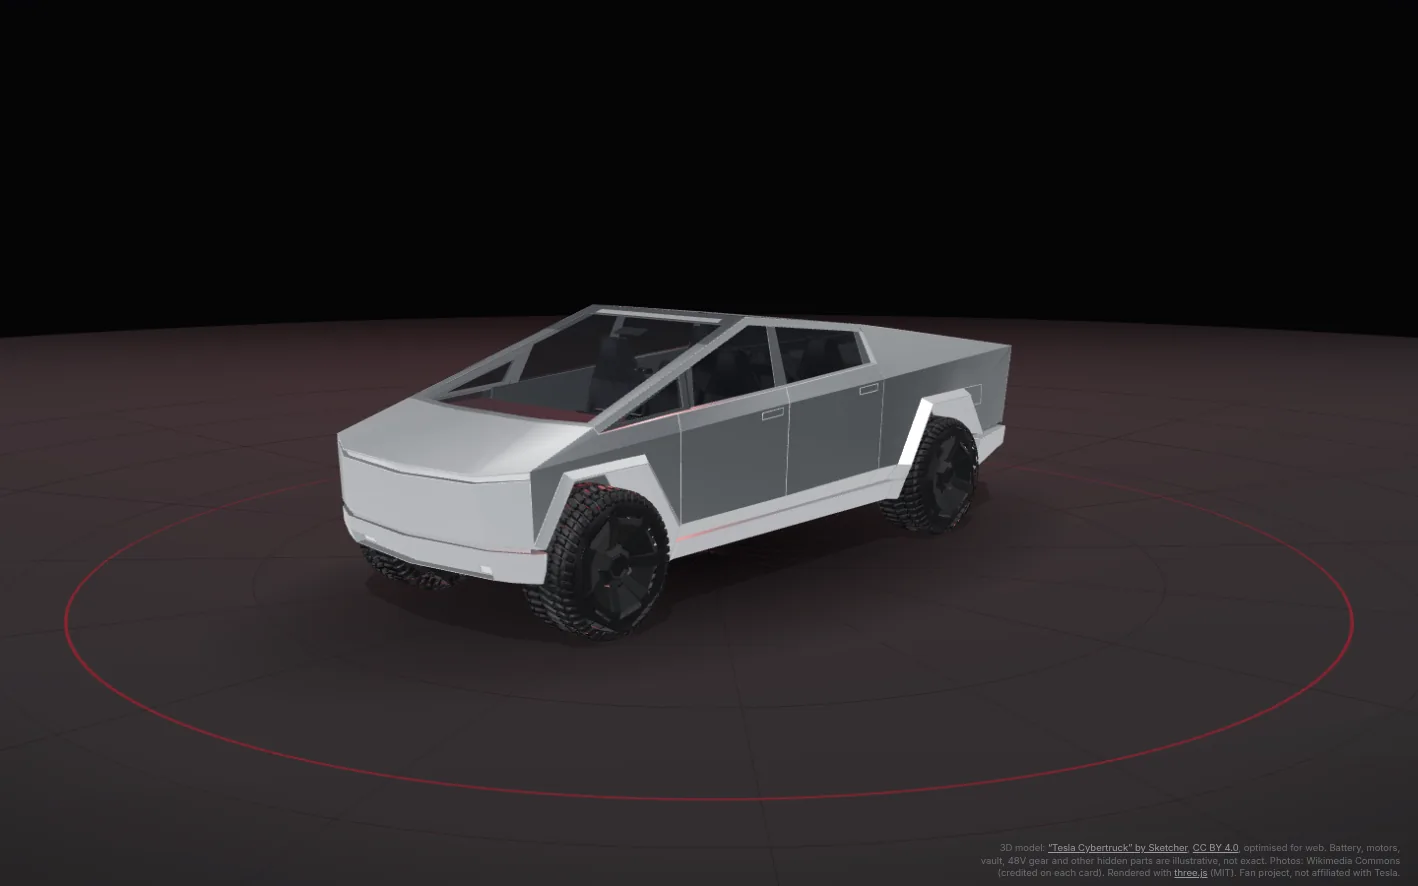
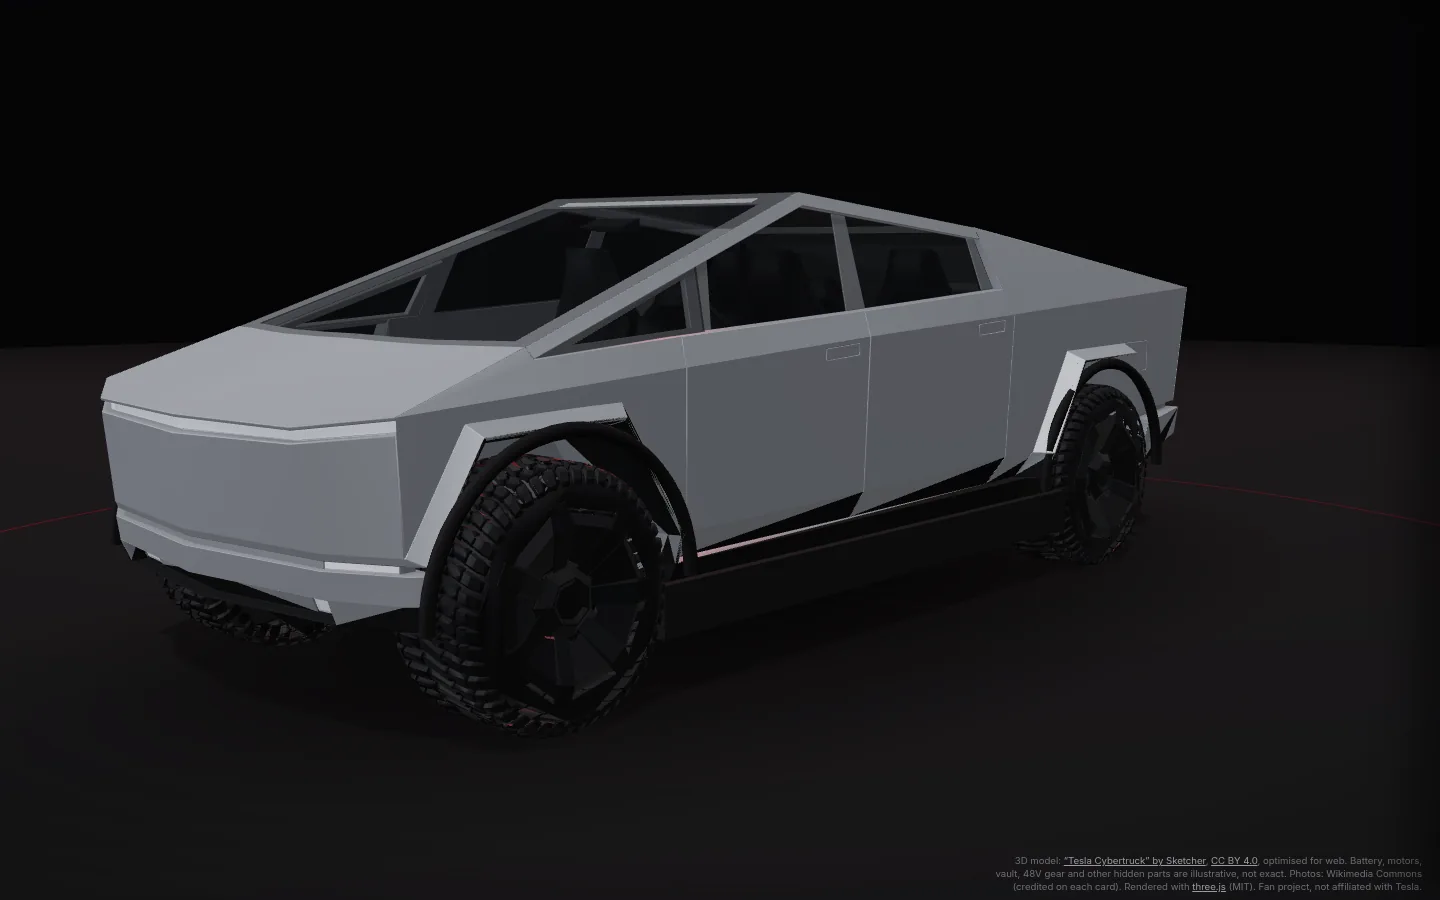
Darken Cybertruck rocker and wheel-arch trim (#81)
* Darken Cybertruck rocker and arch trim, and start the camera closer.

The stainless shell was reading as a white lip on the lower body and wheel arches. Those triangles now use a dark plastic material, illustrated internals stay hidden until explode, and the home camera sits nearer so the truck fills the frame.

* Dull the Cybertruck shell and pull the explode camera back.

The stainless read too mirror-bright on the big front planes, so roughness is up and the lights are quieter. Explode now flies further out so the pack and motors stay in frame from the closer home view.

---------

diff --git a/cybertruck-explorer.js b/cybertruck-explorer.js
@@ -8,7 +8,7 @@ import { RoomEnvironment } from '/vendor/three/addons/RoomEnvironment.js';
 import { PARTS, ORDER, PHOTOS } from './cybertruck-parts.js?v=1';
 
 const EXTERIOR = {
-  url: '/assets/3d/cybertruck.glb?v=2',
+  url: '/assets/3d/cybertruck.glb?v=4',
   length: 5.682,
   classify(o) {
     const n = ((o.name || '') + ' ' + ((o.material && o.material.name) || '')).toLowerCase();
@@ -36,19 +36,19 @@ try { renderer = new THREE.WebGLRenderer({ antialias: true, powerPreference: 'hi
 catch (e) { fail('Your browser can’t run 3D here, so this is a still image.'); throw e; }
 let dpr = Math.min(devicePixelRatio || 1, coarse ? 1.75 : 2);
 renderer.setPixelRatio(dpr);
-renderer.toneMapping = THREE.ACESFilmicToneMapping; renderer.toneMappingExposure = 1.05;
+renderer.toneMapping = THREE.ACESFilmicToneMapping; renderer.toneMappingExposure = 0.88;
 renderer.outputColorSpace = THREE.SRGBColorSpace;
 renderer.shadowMap.enabled = true; renderer.shadowMap.type = THREE.PCFSoftShadowMap;
 $('.m3x-canvas').appendChild(renderer.domElement);
 
-const scene = new THREE.Scene(); scene.background = new THREE.Color(0x050506); scene.fog = new THREE.Fog(0x050506, 16, 38);
+const scene = new THREE.Scene(); scene.background = new THREE.Color(0x050506); scene.fog = new THREE.Fog(0x050506, 14, 34);
 const pmrem = new THREE.PMREMGenerator(renderer);
-scene.environment = pmrem.fromScene(new RoomEnvironment(), 0.03).texture; scene.environmentIntensity = 1.05;
+scene.environment = pmrem.fromScene(new RoomEnvironment(), 0.03).texture; scene.environmentIntensity = 0.58;
 const camera = new THREE.PerspectiveCamera(35, 1, 0.05, 90);
-const key = new THREE.DirectionalLight(0xffffff, 2.15); key.position.set(5, 10, 6); key.castShadow = true;
+const key = new THREE.DirectionalLight(0xffffff, 1.28); key.position.set(5, 10, 6); key.castShadow = true;
 key.shadow.mapSize.set(coarse ? 1024 : 2048, coarse ? 1024 : 2048); Object.assign(key.shadow.camera, { left: -7, right: 7, top: 7, bottom: -7, near: 1, far: 30 }); key.shadow.radius = 8; key.shadow.bias = -0.0004; key.shadow.normalBias = 0.02;
-const rim = new THREE.DirectionalLight(0xff5a66, 1.15); rim.position.set(-7, 0.6, -7);
-const fill = new THREE.DirectionalLight(0xbfd2ff, 0.55); fill.position.set(-6, 4, 7);
+const rim = new THREE.DirectionalLight(0xff5a66, 0.32); rim.position.set(-7, 0.6, -7);
+const fill = new THREE.DirectionalLight(0xbfd2ff, 0.42); fill.position.set(-6, 4, 7);
 scene.add(key, rim, fill, new THREE.HemisphereLight(0x9aa8ff, 0x100404, 0.25));
 const floor = new THREE.Mesh(new THREE.CircleGeometry(20, 96), new THREE.MeshStandardMaterial({ color: 0x08080a, roughness: 1, metalness: 0, envMapIntensity: 0.1 }));
 floor.rotation.x = -Math.PI / 2; floor.receiveShadow = true; scene.add(floor);
@@ -59,12 +59,13 @@ ring.rotation.x = -Math.PI / 2; ring.position.y = 0.004; scene.add(ring);
 const grid = new THREE.PolarGridHelper(10, 16, 6, 96, 0x2a0a0e, 0x1a0b0d); grid.position.y = 0.002; grid.material.transparent = true; grid.material.opacity = .35; scene.add(grid);
 
 const controls = new OrbitControls(camera, renderer.domElement);
-Object.assign(controls, { enableDamping: true, dampingFactor: 0.07, enablePan: false, enableZoom: true, minDistance: 2.2, maxDistance: 18, minPolarAngle: 0.12, maxPolarAngle: Math.PI / 2 - 0.04, rotateSpeed: coarse ? 0.85 : 0.65, zoomSpeed: 0.7 });
+Object.assign(controls, { enableDamping: true, dampingFactor: 0.07, enablePan: false, enableZoom: true, minDistance: 1.8, maxDistance: 16, minPolarAngle: 0.12, maxPolarAngle: Math.PI / 2 - 0.04, rotateSpeed: coarse ? 0.85 : 0.65, zoomSpeed: 0.7 });
 renderer.domElement.style.touchAction = 'none';
-const HOME = { p: new THREE.Vector3(), t: new THREE.Vector3(0, 0.85, 0) };
-const homePos = () => new THREE.Vector3(7.2, 2.8, 8.0).multiplyScalar(portrait() ? 1.55 : 1);
+const HOME = { p: new THREE.Vector3(), t: new THREE.Vector3(0, 0.7, 0.12) };
+const homePos = () => new THREE.Vector3(4.7, 1.68, 5.2).multiplyScalar(portrait() ? 1.55 : 1);
 
 const parts = {};
+const HIDDEN_UNTIL_EXPLODE = new Set(['battery', 'rearMotor', 'frontMotor', 'inverter', 'lv', 'steer', 'vault', 'frunk', 'susp', 'hvac', 'display', 'brakes']);
 const reg = (id) => (parts[id] = parts[id] || { meshes: [], hits: [], group: new THREE.Group(), off: new THREE.Vector3() });
 const car = new THREE.Group(); scene.add(car);
 const S = (o) => new THREE.MeshStandardMaterial(o), P = (o) => new THREE.MeshPhysicalMaterial(o);
@@ -77,7 +78,8 @@ const M = {
   cool: S({ color: 0x3f6f8f, metalness: .8, roughness: .35 }), spring: S({ color: 0xd9dadd, metalness: .85, roughness: .25 }),
   disc: S({ color: 0x777a80, metalness: .95, roughness: .28 }), lens: P({ color: 0x0b0f18, metalness: .2, roughness: .05, clearcoat: 1 }),
   hvac: S({ color: 0x34373d, metalness: .3, roughness: .6 }), blue: S({ color: 0x2a5d9b, roughness: .5 }), red: S({ color: RED, roughness: .45 }),
-  stainless: P({ color: 0xb7bbc0, metalness: .96, roughness: .18, clearcoat: .28, clearcoatRoughness: .22, envMapIntensity: 1.15 }),
+  stainless: P({ color: 0x8f9297, metalness: .55, roughness: .52, clearcoat: 0, envMapIntensity: 0.32 }),
+  clad: S({ color: 0x0e0f11, metalness: .08, roughness: .86, envMapIntensity: 0.18 }),
 };
 const V = (x, y, z) => new THREE.Vector3(x, y, z);
 function addMesh(id, m, hitMin = 0.26) {
@@ -177,12 +179,97 @@ function buildInternals(d) {
   Object.entries(off).forEach(([k, v]) => { if (parts[k]) parts[k].off.copy(v); });
 }
 
+function geomFromTris(g, tris, mat, mesh) {
+  if (!tris.length) return null;
+  const ng = new THREE.BufferGeometry();
+  for (const name of Object.keys(g.attributes)) {
+    const a = g.attributes[name], arr = new a.array.constructor(tris.length * 3 * a.itemSize);
+    tris.forEach((t, i) => { for (let k = 0; k < 3 * a.itemSize; k++) arr[i * 3 * a.itemSize + k] = a.array[t * a.itemSize + k]; });
+    ng.setAttribute(name, new THREE.BufferAttribute(arr, a.itemSize, a.normalized));
+  }
+  const nm = new THREE.Mesh(ng, mat);
+  nm.name = mesh.name;
+  nm.matrixAutoUpdate = false;
+  nm.matrix.copy(mesh.matrixWorld);
+  nm.matrixWorldNeedsUpdate = true;
+  nm.castShadow = nm.receiveShadow = true;
+  return nm;
+}
 function splitLR(mesh) {
   const g = mesh.geometry.index ? mesh.geometry.toNonIndexed() : mesh.geometry; const pos = g.attributes.position; const out = [[], []];
   const v = new THREE.Vector3(), m = mesh.matrixWorld;
   for (let t = 0; t < pos.count; t += 3) { let cx = 0; for (let k = 0; k < 3; k++) { v.fromBufferAttribute(pos, t + k).applyMatrix4(m); cx += v.x; } out[cx < 0 ? 0 : 1].push(t); }
-  return out.map((tris) => { if (!tris.length) return null; const ng = new THREE.BufferGeometry(); for (const name of Object.keys(g.attributes)) { const a = g.attributes[name], arr = new a.array.constructor(tris.length * 3 * a.itemSize); tris.forEach((t, i) => { for (let k = 0; k < 3 * a.itemSize; k++) arr[i * 3 * a.itemSize + k] = a.array[t * a.itemSize + k]; }); ng.setAttribute(name, new THREE.BufferAttribute(arr, a.itemSize, a.normalized)); }
-    const nm = new THREE.Mesh(ng, mesh.material); nm.name = mesh.name; nm.matrixAutoUpdate = false; nm.matrix.copy(mesh.matrixWorld); nm.matrixWorldNeedsUpdate = true; return nm; });
+  return out.map((tris) => geomFromTris(g, tris, mesh.material, mesh));
+}
+// Wheel-arch flares and the lower rocker are the same stainless Bodyl mesh.
+// Split those triangles so they read as the truck’s dark plastic cladding.
+function splitCladding(mesh, d) {
+  const g = mesh.geometry.index ? mesh.geometry.toNonIndexed() : mesh.geometry;
+  const pos = g.attributes.position, mw = mesh.matrixWorld;
+  const va = new THREE.Vector3(), vb = new THREE.Vector3(), vc = new THREE.Vector3();
+  const wy = d.cy || d.R;
+  const wheels = [[d.tw, d.zf, d.R], [-d.tw, d.zf, d.R], [d.tw, d.zr, d.R], [-d.tw, d.zr, d.R]];
+  const xOut = Math.max(0.86, d.tw * 0.88);
+  const clad = [], rest = [];
+  for (let t = 0; t < pos.count; t += 3) {
+    va.fromBufferAttribute(pos, t).applyMatrix4(mw);
+    vb.fromBufferAttribute(pos, t + 1).applyMatrix4(mw);
+    vc.fromBufferAttribute(pos, t + 2).applyMatrix4(mw);
+    const cx = (va.x + vb.x + vc.x) / 3, cy = (va.y + vb.y + vc.y) / 3, cz = (va.z + vb.z + vc.z) / 3;
+    let arch = false;
+    for (let i = 0; i < 4; i++) {
+      const wx = wheels[i][0], wz = wheels[i][1], r = wheels[i][2];
+      // Side-view ring around the wheel, not a top-down cylinder — that
+      // painted the doors. Keep the flare on the outer skin.
+      const ring = Math.hypot(cy - wy, cz - wz);
+      // Top and upper sides of the opening only. A full ring paints the fender.
+      if (cy > wy + r * 0.5 && ring > r * 0.95 && ring < r * 1.34 && Math.abs(cz - wz) < r * 0.95 && Math.abs(cx) > xOut) { arch = true; break; }
+    }
+    const skirt = cy < 0.58 && Math.abs(cx) > Math.max(0.84, d.tw * 0.86);
+    const under = cy < 0.42;
+    const chin = cy < 0.50 && Math.abs(cz) > 2.28;
+    (arch || skirt || under || chin ? clad : rest).push(t);
+  }
+  const shell = geomFromTris(g, rest, M.stainless, mesh);
+  const trim = geomFromTris(g, clad, M.clad, mesh);
+  if (trim) trim.name = 'cladding';
+  globalThis.__ctxClad = { tris: clad.length, rest: rest.length, tw: d.tw, R: d.R, wy };
+  return [shell, trim].filter(Boolean);
+}
+function addCladdingFills(d) {
+  const p = reg('body');
+  const mid = (d.zf + d.zr) / 2;
+  const len = Math.max(1.35, d.zf - d.zr - 0.85);
+  for (const sx of [-1, 1]) {
+    const wall = new THREE.Mesh(box(0.04, 0.2, len), M.clad);
+    wall.position.set(sx * Math.min((d.tx || d.tw + 0.12) - 0.04, d.tw + 0.08), 0.36, mid);
+    wall.userData.part = 'body';
+    wall.name = 'rocker-fill';
+    wall.castShadow = wall.receiveShadow = true;
+    p.group.add(wall);
+    p.meshes.push(wall);
+  }
+  const tray = new THREE.Mesh(box(Math.min(d.W - 0.25, 2 * d.tw + 0.2), 0.035, d.zf - d.zr - 0.4), M.clad);
+  tray.position.set(0, 0.34, mid);
+  tray.userData.part = 'body';
+  tray.name = 'undertray';
+  tray.castShadow = tray.receiveShadow = true;
+  p.group.add(tray);
+  p.meshes.push(tray);
+  const wy = d.cy || d.R;
+  const rad = d.R * 1.26;
+  for (const sx of [-1, 1]) {
+    for (const z of [d.zf, d.zr]) {
+      const m = new THREE.Mesh(new THREE.TorusGeometry(rad, 0.028, 6, 28, Math.PI), M.clad);
+      m.position.set(sx * ((d.tx || d.tw + 0.1) - 0.05), wy, z);
+      m.rotation.y = Math.PI / 2;
+      m.userData.part = 'body';
+      m.name = 'arch-trim';
+      m.castShadow = m.receiveShadow = true;
+      p.group.add(m);
+      p.meshes.push(m);
+    }
+  }
 }
 
 const status = $('.m3x-status'); status.textContent = 'Loading Cybertruck…';
@@ -239,7 +326,14 @@ new GLTFLoader().setDRACOLoader(new DRACOLoader().setDecoderPath('/vendor/three/
   });
   const pts = []; const v = new THREE.Vector3(); tyres.forEach((t) => { const p = t.geometry.attributes.position; const step = Math.max(1, Math.floor(p.count / 400)); for (let i = 0; i < p.count; i += step) pts.push(v.fromBufferAttribute(p, i).applyMatrix4(t.matrixWorld).clone()); });
   const q = { fl: [], fr: [], rl: [], rr: [] }; pts.forEach((p) => q[(p.z > 0 ? 'f' : 'r') + (p.x > 0 ? 'l' : 'r')].push(p));
-  const cen = (a) => { const bb = new THREE.Box3().setFromPoints(a); return { c: bb.getCenter(new THREE.Vector3()), r: bb.getSize(new THREE.Vector3()).y / 2 }; };
+  const cen = (a) => {
+    if (!a.length) return { c: new THREE.Vector3(), r: 0.46 };
+    const abs = a.map((p) => Math.abs(p.x)).sort((x, y) => x - y);
+    const cut = abs[Math.floor(abs.length * 0.4)] || 0;
+    const outer = a.filter((p) => Math.abs(p.x) >= cut);
+    const bb = new THREE.Box3().setFromPoints(outer.length ? outer : a);
+    return { c: bb.getCenter(new THREE.Vector3()), r: bb.getSize(new THREE.Vector3()).y / 2 };
+  };
   let d;
   try { const W4 = Object.values(q).map(cen); d = { zf: (W4[0].c.z + W4[1].c.z) / 2, zr: (W4[2].c.z + W4[3].c.z) / 2, tw: W4.reduce((a, w) => a + Math.abs(w.c.x), 0) / 4, R: W4.reduce((a, w) => a + w.r, 0) / 4, cy: W4.reduce((a, w) => a + w.c.y, 0) / 4, tx: pts.reduce((a, p) => Math.max(a, Math.abs(p.x)), 0) }; if (!isFinite(d.zf) || !isFinite(d.R) || d.R < 0.2) throw 0; }
   catch (e) { d = { zf: 1.82, zr: -1.82, tw: 0.95, R: 0.46 }; }
@@ -247,10 +341,15 @@ new GLTFLoader().setDRACOLoader(new DRACOLoader().setDecoderPath('/vendor/three/
   globalThis.__ctxD = d;
   meshes.forEach((o) => {
     const id = o.userData.part;
-    if (id === 'wheels') { splitLR(o).forEach((nm, i) => { if (!nm) return; nm.castShadow = nm.receiveShadow = true; nm.userData = { part: id, side: i }; reg(id).meshes.push(nm); }); o.visible = false; return; }
+    if (id === 'wheels') { splitLR(o).forEach((nm, i) => { if (!nm) return; nm.userData = { part: id, side: i }; reg(id).meshes.push(nm); }); o.visible = false; return; }
+    if (id === 'body') {
+      splitCladding(o, d).forEach((nm) => { nm.userData.part = 'body'; const p = reg('body'); p.group.attach(nm); p.meshes.push(nm); });
+      o.visible = false; return;
+    }
     const p = reg(id); p.group.attach(o); p.meshes.push(o);
   });
   buildInternals(d);
+  addCladdingFills(d);
   if (/debug/.test(location.search)) window.__ctx = { THREE, parts, car, camera, controls, d };
   (parts.body ? parts.body.meshes : []).forEach((o) => { const cc = new THREE.Box3().setFromObject(o).getCenter(new THREE.Vector3()); o.userData.base = o.position.clone(); o.userData.eo = o.parent.worldToLocal(cc.clone().add(V(cc.x * 0.1, 0.03, cc.z * 0.04))).sub(o.parent.worldToLocal(cc.clone())); });
   const SPLIT = { wheels: 1.05, brakes: 0.85, susp: 0.5 };
@@ -260,6 +359,7 @@ new GLTFLoader().setDRACOLoader(new DRACOLoader().setDecoderPath('/vendor/three/
     if (Math.max(sz.x, sz.y, sz.z) > 1.4) return; const h = new THREE.Mesh(new THREE.BoxGeometry(Math.max(sz.x, .22), Math.max(sz.y, .22), Math.max(sz.z, .22)), new THREE.MeshBasicMaterial({ visible: false })); h.position.copy(cc); h.userData = { part: id, hit: true, side: o.userData.side };
     const parent = p.sides && o.parent && o.parent !== p.group ? o.parent : p.group; parent.attach ? parent.attach(h) : p.group.add(h); p.hits.push(h); }); });
   Object.values(parts).forEach((p) => car.add(p.group));
+  HIDDEN_UNTIL_EXPLODE.forEach((id) => { const p = parts[id]; if (p) p.group.visible = false; });
   buildList(); app.classList.add('m3x-ready'); status.textContent = ''; bar && (bar.style.opacity = 0); kick();
 }, (e) => { if (bar && e.total) bar.style.transform = 'scaleX(' + (e.loaded / e.total) + ')'; }, () => fail('Couldn’t load the 3D model, so this is a still image.'));
 
@@ -272,9 +372,20 @@ function setExplode(v) {
   syncEx(); kick();
 }
 slider.addEventListener('input', () => { exT = ex = slider.value / 100; exAnim = null; syncEx(); kick(); });
-exBtn.addEventListener('click', () => { const v = exT > 0.5 ? 0 : 1; setExplode(v); if (!selected) startFly(v ? homePos().multiplyScalar(1.22).add(V(0, 0.7, 0)) : homePos(), v ? V(0, 1.25, 0) : HOME.t.clone()); });
+exBtn.addEventListener('click', () => { const v = exT > 0.5 ? 0 : 1; setExplode(v); if (!selected) startFly(v ? homePos().multiplyScalar(1.48).add(V(0, 1.15, 0)) : homePos(), v ? V(0, 1.45, 0) : HOME.t.clone()); });
 const ease = (t) => t < .5 ? 4 * t * t * t : 1 - Math.pow(-2 * t + 2, 3) / 2;
-function applyExplode() { const e = ease(ex); Object.values(parts).forEach((p) => { p.group.position.copy(p.off).multiplyScalar(e); if (p.sides) { p.sides[0].position.x = -p.split * e; p.sides[1].position.x = p.split * e; } }); (parts.body ? parts.body.meshes : []).forEach((o) => { if (o.userData.eo) o.position.copy(o.userData.base).addScaledVector(o.userData.eo, e); }); }
+function applyExplode() {
+  const e = ease(ex);
+  Object.values(parts).forEach((p) => { p.group.position.copy(p.off).multiplyScalar(e); if (p.sides) { p.sides[0].position.x = -p.split * e; p.sides[1].position.x = p.split * e; } });
+  (parts.body ? parts.body.meshes : []).forEach((o) => { if (o.userData.eo) o.position.copy(o.userData.base).addScaledVector(o.userData.eo, e); });
+  const showInside = e > 0.05 || (selected && HIDDEN_UNTIL_EXPLODE.has(selected));
+  HIDDEN_UNTIL_EXPLODE.forEach((id) => {
+    const p = parts[id];
+    if (!p) return;
+    p.group.visible = showInside;
+    p.meshes.forEach((o) => { o.visible = showInside; });
+  });
+}
 
 let selected = null; const card = $('.m3x-card');
 ['pointerdown', 'pointerup', 'click'].forEach((type) => card.addEventListener(type, (e) => e.stopPropagation()));
@@ -316,18 +427,30 @@ function select(id, opts = {}) {
   }
   card.innerHTML = cardHTML(id); card.hidden = false; card.scrollTop = 0;
   card.querySelector('.m3x-x').onclick = (e) => { e.preventDefault(); e.stopPropagation(); select(null); };
+  if (HIDDEN_UNTIL_EXPLODE.has(id) && exT < 0.2) setExplode(1);
   label.textContent = PARTS[id].name; label.hidden = false; frame(); if (flyIt) flyTo(id); idle(); kick();
 }
 function frame() { const w = innerWidth, h = app.clientHeight;
   if (selected && portrait()) camera.setViewOffset(w, h, 0, h * 0.2, w, h);
   else if (selected && w > 900) camera.setViewOffset(w, h, -((460 + w - 286) / 2 - w / 2), 0, w, h);
   else camera.clearViewOffset(); camera.updateProjectionMatrix(); }
-function partBox(id) { applyExplode(); car.updateMatrixWorld(true); const bx = new THREE.Box3(); parts[id].meshes.forEach((o) => { if (o.visible) bx.expandByObject(o); }); return bx; }
+function partBox(id, atTarget) {
+  const saved = ex;
+  if (atTarget) ex = Math.max(ex, exT);
+  applyExplode(); car.updateMatrixWorld(true);
+  const bx = new THREE.Box3();
+  const p = parts[id];
+  if (p && p.group.visible) p.meshes.forEach((o) => { if (o.visible) bx.expandByObject(o); });
+  if (atTarget) { ex = saved; applyExplode(); }
+  return bx;
+}
 let fly = null;
-function flyTo(id) { const sd = parts[id] && parts[id].sides; const bx = partBox(id), c = bx.getCenter(new THREE.Vector3()), r = bx.getSize(new THREE.Vector3()).length() / 2;
+function flyTo(id) { const sd = parts[id] && parts[id].sides; const bx = partBox(id, true), c = bx.getCenter(new THREE.Vector3()), r = bx.getSize(new THREE.Vector3()).length() / 2;
   const dir = camera.position.clone().sub(controls.target).normalize(); dir.y = Math.max(dir.y, 0.42); dir.normalize();
   const fit = r / Math.sin(THREE.MathUtils.degToRad(camera.fov / 2)) * (portrait() ? 1.25 : 0.95);
-  const dist = THREE.MathUtils.clamp(fit, portrait() ? 3.6 : (sd ? 4.0 : 2.3), 13); if (sd) { startFly(homePos().multiplyScalar(ex > .5 ? 1.25 : 1.05).add(V(0, ex > .5 ? 0.45 : 0, 0)), V(0, 0.55, 0)); return; } startFly(c.clone().add(dir.multiplyScalar(dist)), c); }
+  const dist = THREE.MathUtils.clamp(fit, portrait() ? 3.6 : (sd ? 4.0 : 2.3), 13); if (sd) { startFly(homePos().multiplyScalar(exT > .5 ? 1.48 : 1.05).add(V(0, exT > .5 ? 0.9 : 0, 0)), V(0, 0.55, 0)); return; }
+  if (!isFinite(c.x) || !isFinite(r) || r < 0.01) { startFly(homePos().multiplyScalar(exT > .5 ? 1.22 : 1), exT > .5 ? V(0, 1.25, 0) : HOME.t.clone()); return; }
+  startFly(c.clone().add(dir.multiplyScalar(dist)), c); }
 function flyK(f) { return !f || f.dur <= 0 ? 1 : Math.min(1, (performance.now() - f.start) / f.dur); }
 function startFly(p, t) {
   const len = p.distanceTo(camera.position) + t.distanceTo(controls.target);
@@ -420,6 +543,7 @@ globalThis.__ctx = {
   ex: () => ex,
   exT: () => exT,
   face: () => globalThis.__ctxFace,
+  vis: () => Object.fromEntries(Object.entries(parts).map(([k, p]) => [k, !!p.group.visible])),
   view: () => ({
     selected,
     x: camera.position.x, y: camera.position.y, z: camera.position.z,

diff --git a/cybertruck-explorer.html b/cybertruck-explorer.html
@@ -13,7 +13,7 @@
     <link href="https://fonts.googleapis.com/css2?family=IBM+Plex+Mono:wght@400;500&family=Inter:wght@400;500;600;700;800&family=Michroma&display=swap" rel="stylesheet" />
     <link rel="stylesheet" href="/model3-explorer.css?v=202610141132" />
     <link rel="modulepreload" href="/vendor/three/three.module.min.js" />
-    <link rel="preload" href="/assets/3d/cybertruck.glb?v=2" as="fetch" crossorigin />
+    <link rel="preload" href="/assets/3d/cybertruck.glb?v=4" as="fetch" crossorigin />
       <link rel="stylesheet" href="/nav-pill.css?v=202610141020" />
   </head>
   <body class="pn-app">
@@ -73,7 +73,7 @@
         <div class="m3x-title"><p>Interactive · 3D</p><h1>Cybertruck, taken apart</h1></div>
       </header>
       <div class="m3x-canvas">
-        <img class="m3x-poster" src="/assets/3d/cybertruck-poster.webp?v=2" alt="Tesla Cybertruck rendered in 3D" width="1440" height="900" fetchpriority="high" />
+        <img class="m3x-poster" src="/assets/3d/cybertruck-poster.webp?v=4" alt="Tesla Cybertruck rendered in 3D" width="1440" height="900" fetchpriority="high" />
       </div>
       <span class="m3x-status" aria-live="polite"></span><span class="m3x-loadbar" aria-hidden="true"></span>
       <div class="m3x-tip" hidden></div>
@@ -92,7 +92,7 @@
       </div>
       <p class="m3x-credit">3D model: <a href="https://sketchfab.com/3d-models/tesla-cybertruck-587a0833e60f465090145b139f6c1bfc" target="_blank" rel="noopener">“Tesla Cybertruck” by Sketcher</a>, <a href="https://creativecommons.org/licenses/by/4.0/" target="_blank" rel="noopener">CC BY 4.0</a>, optimised for web. Battery, motors, vault, 48V gear and other hidden parts are illustrative, not exact. Photos: Wikimedia Commons (credited on each card). Rendered with <a href="https://threejs.org" target="_blank" rel="noopener">three.js</a> (MIT). Fan project, not affiliated with Tesla.</p>
     </div>
-    <script type="module" src="/cybertruck-explorer.js?v=202610141640"></script>
+    <script type="module" src="/cybertruck-explorer.js?v=202610142040"></script>
       <script src="/nav-pill.js?v=202610141020"></script>
   </body>
 </html>
